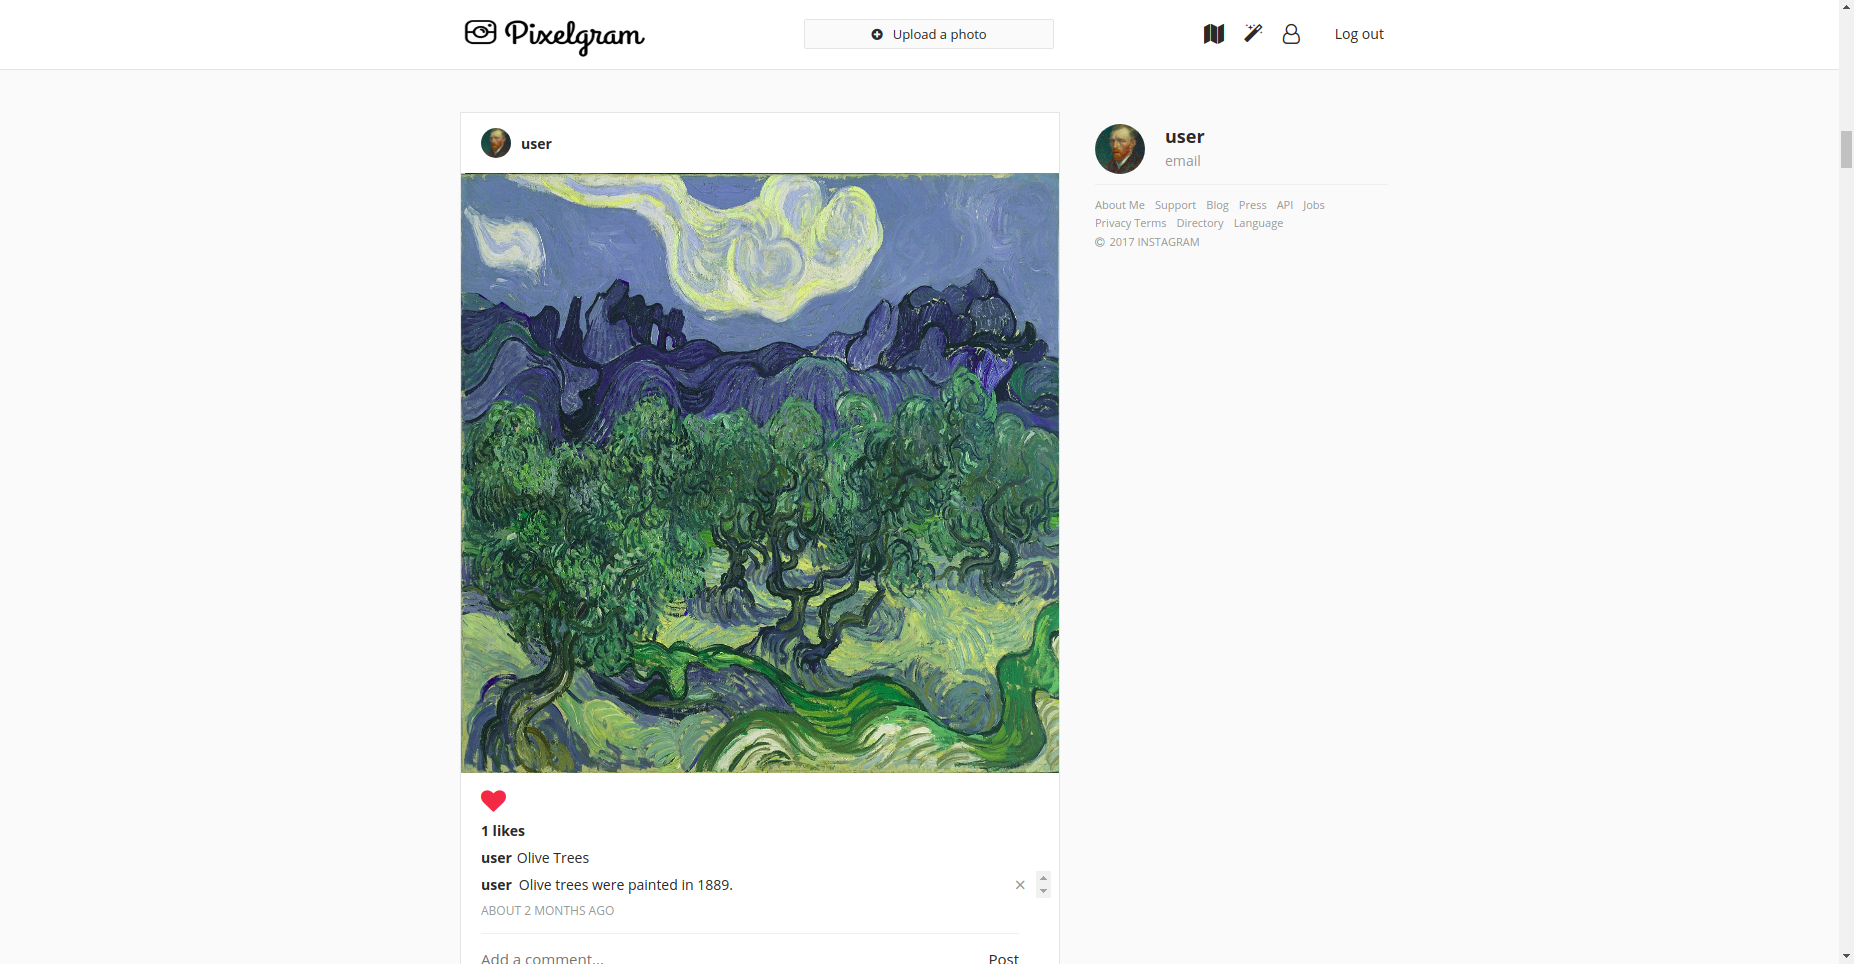
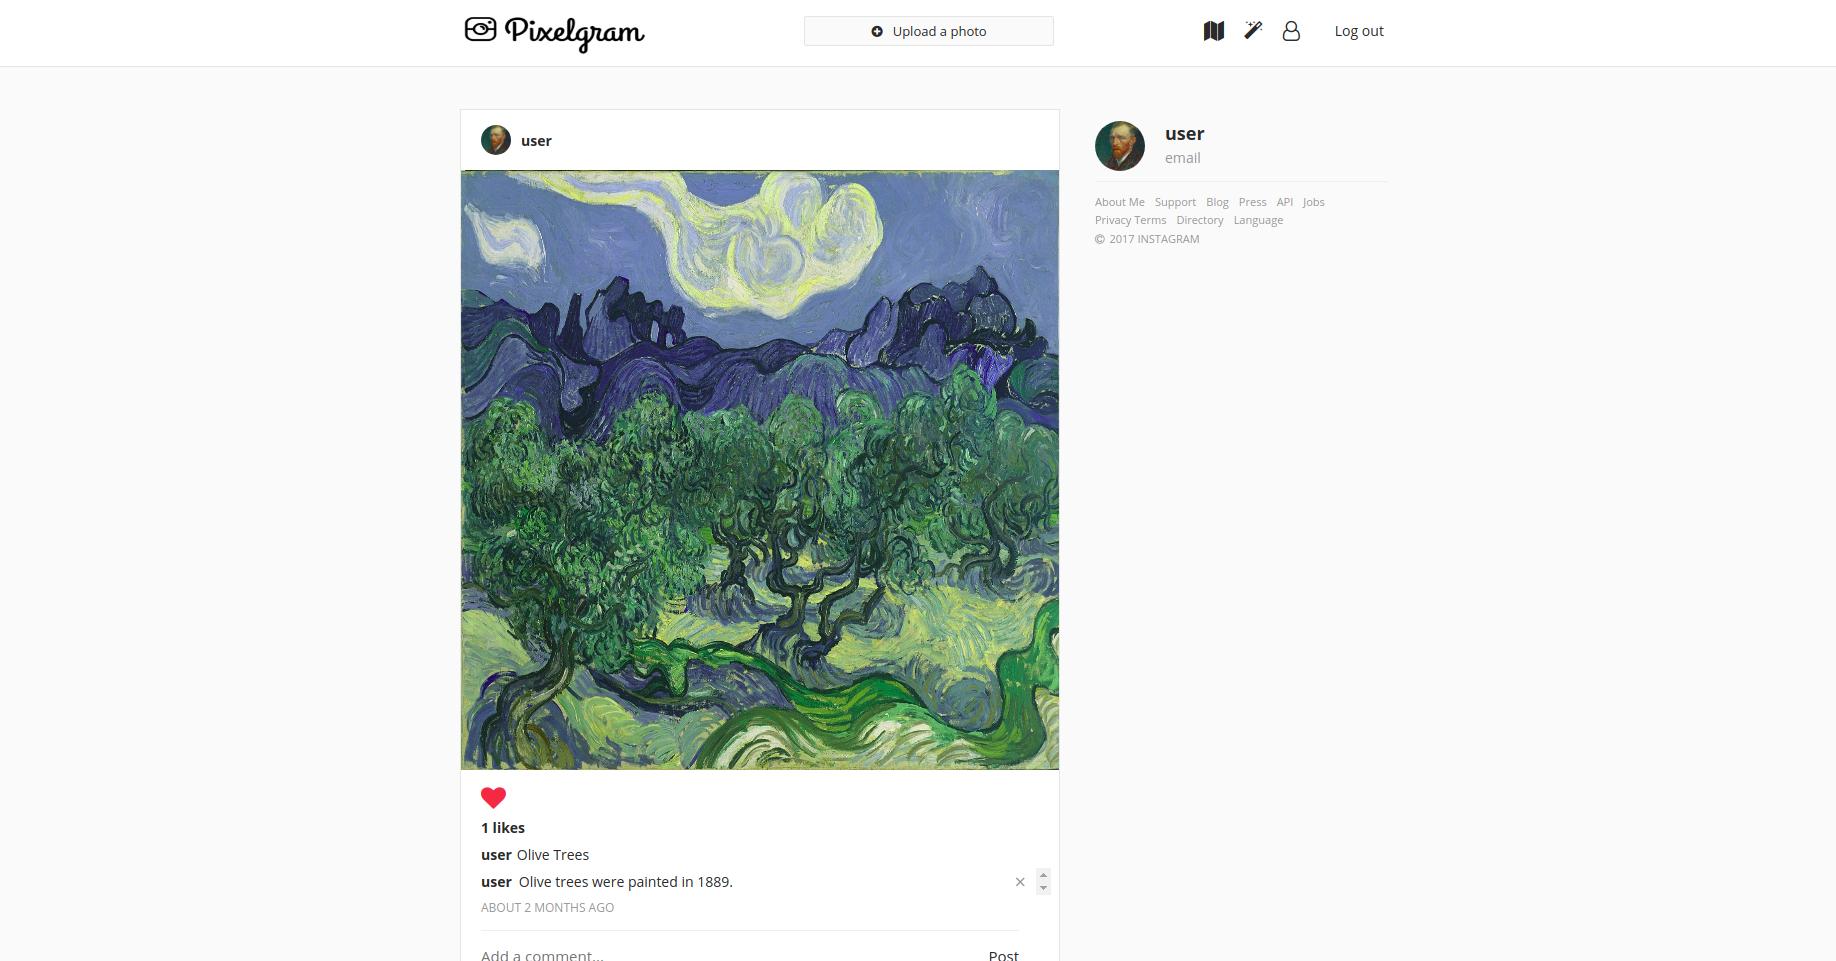
featured photos

diff --git a/index.html b/index.html
@@ -133,23 +133,24 @@
 				<div class="wrapper style2">
 
 					<article id="main" class="container special">
-						<a href="#" class="image featured"><img src="images/pic06.jpg" alt="" /></a>
+						<a href="#" class="image featured"><img class="featured-image" src="myimages/pixelgram1.png" alt="" /></a>
 						<header>
 							<h2><a href="#">Pixelgram</a></h2>
 							<p>
 								Pixel perfect Instagram clone with most of the original site's functionality
 							</p>
 						</header>
-						<p>
-							Commodo id natoque malesuada sollicitudin elit suscipit. Curae suspendisse mauris posuere accumsan massa
-							posuere lacus convallis tellus interdum. Amet nullam fringilla nibh nulla convallis ut venenatis purus
-							sit arcu sociis. Nunc fermentum adipiscing tempor cursus nascetur adipiscing adipiscing. Primis aliquam
-							mus lacinia lobortis phasellus suscipit. Fermentum lobortis non tristique ante proin sociis accumsan
-							lobortis. Auctor etiam porttitor phasellus tempus cubilia ultrices tempor sagittis. Nisl fermentum
-							consequat integer interdum integer purus sapien. Nibh eleifend nulla nascetur pharetra commodo mi augue
-							interdum tellus. Ornare cursus augue feugiat sodales velit lorem. Semper elementum ullamcorper lacinia
-							natoque aenean scelerisque.
-						</p>
+						<div class="featured-p-div">
+							<p class="featured-p">
+								- Optimized hosting of users’ posts by integrating Cloudinary API and cloud
+								services into the website’s framework
+							</p>
+							<p class="featured-p">
+								- Features include: likes, follows, comments, photo upload and explore
+							</p>
+
+						</div>
+
 						<footer>
 							<a href="#" class="button">Continue to Website</a>
 						</footer>

diff --git a/assets/css/main.css b/assets/css/main.css
@@ -3056,3 +3056,10 @@
 	font-weight: 700;
 	border-bottom: 3px solid;
 }
+.featured-image {
+	padding-top: 1.25em;
+}
+.featured-p-div {
+	margin: 0 auto;
+	width: 870px;
+}
